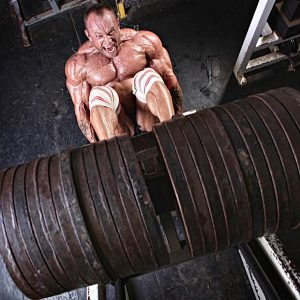
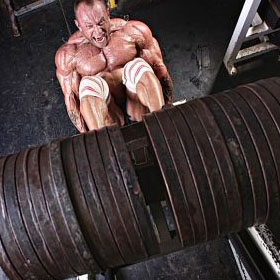
added a css file for the training plan page and adjusted image sizes and styles that page

diff --git a/src/Pages/TraingPlanPage.js b/src/Pages/TraingPlanPage.js
@@ -2,6 +2,7 @@ import React from "react";
 import AddToCartButton from "../components/AddToCartButton";
 import { BsFillHexagonFill } from "react-icons/bs";
 import BasketIcon from "../BasketIcon";
+import "../TrainingPlan.css"
 
 const TrainingPlan = ({ productItem, handleAddProduct }) => {
     const product = {
@@ -19,7 +20,7 @@ const TrainingPlan = ({ productItem, handleAddProduct }) => {
             <BasketIcon className="product-page-basket-icon" />
             <div className="product-card">
                 <div className="product-container">
-                    <div className="product-image-container">
+                    <div className="training-plan-product-image-container">
                         <div className="name-and-bullet-container">
                             <h2 className="product-name">{product.name}</h2>
                             <div className="bullet-points-container" >
@@ -38,7 +39,7 @@ const TrainingPlan = ({ productItem, handleAddProduct }) => {
                             </div>
                         </div>
                         <img
-                            className="product-card-image"
+                            className="training-plan-product-card-image"
                             src={product.image}
                             alt={product.name}
                         />

diff --git a/src/TrainingPlan.css b/src/TrainingPlan.css
@@ -1,0 +1,11 @@
+.training-plan-product-image-container {
+    display: flex;
+    justify-content: space-between;
+    width: 70vw;
+    margin: auto;
+}
+.training-plan-product-card-image {
+    height: 180px;
+    width: 150px;
+    margin: auto;
+}
